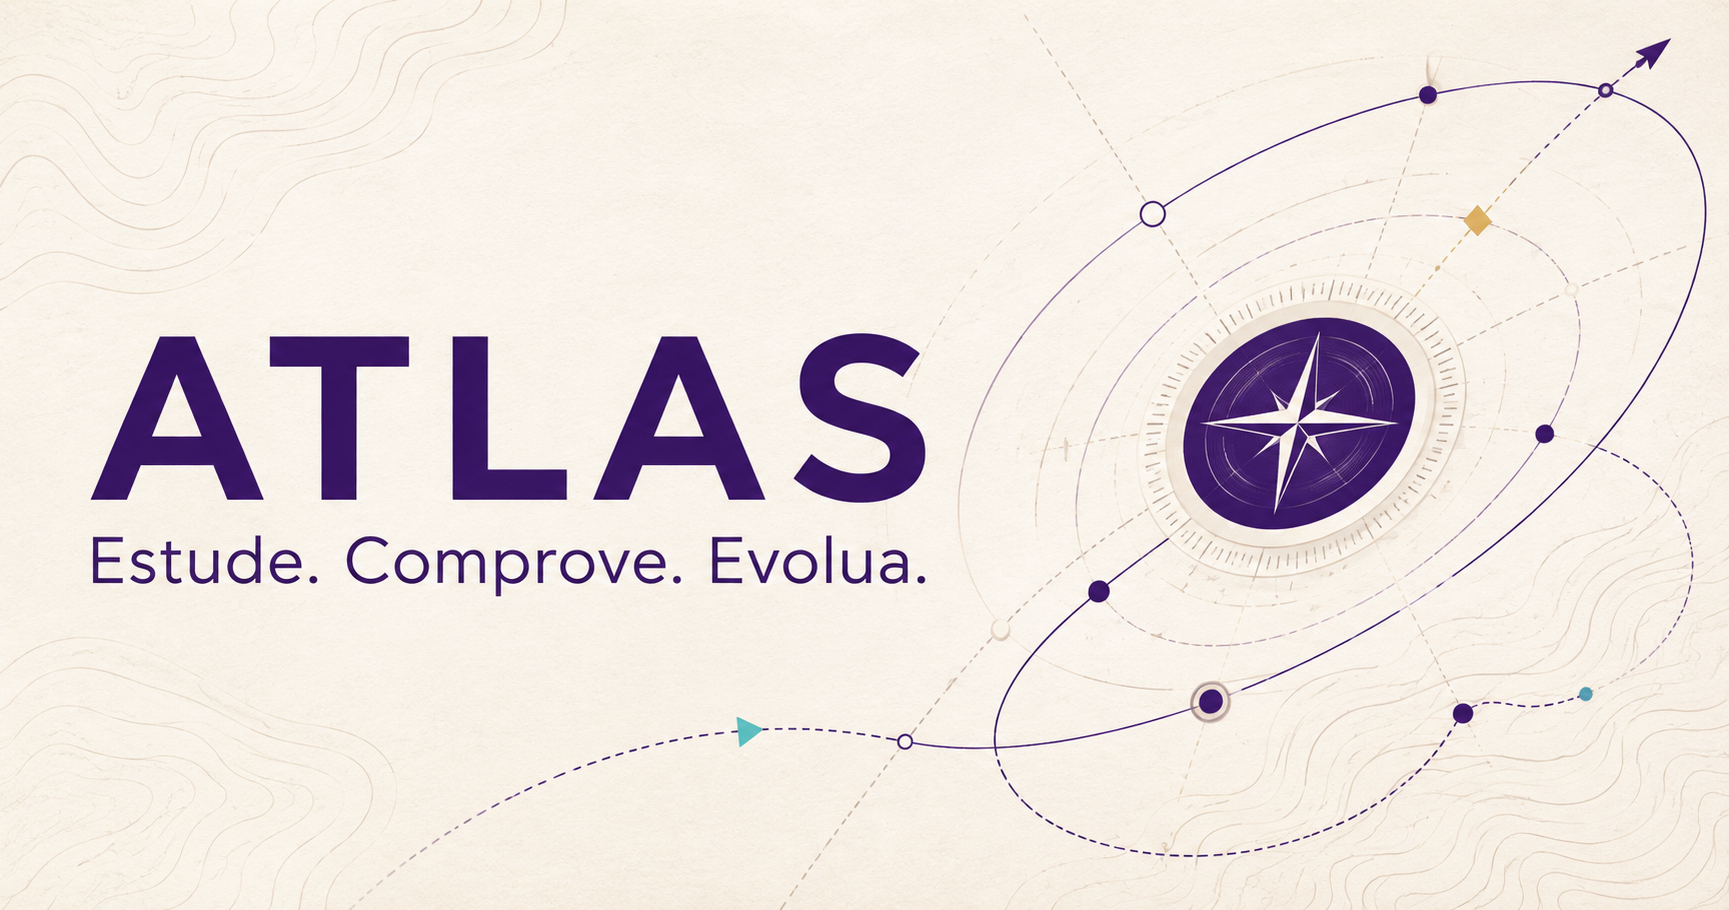
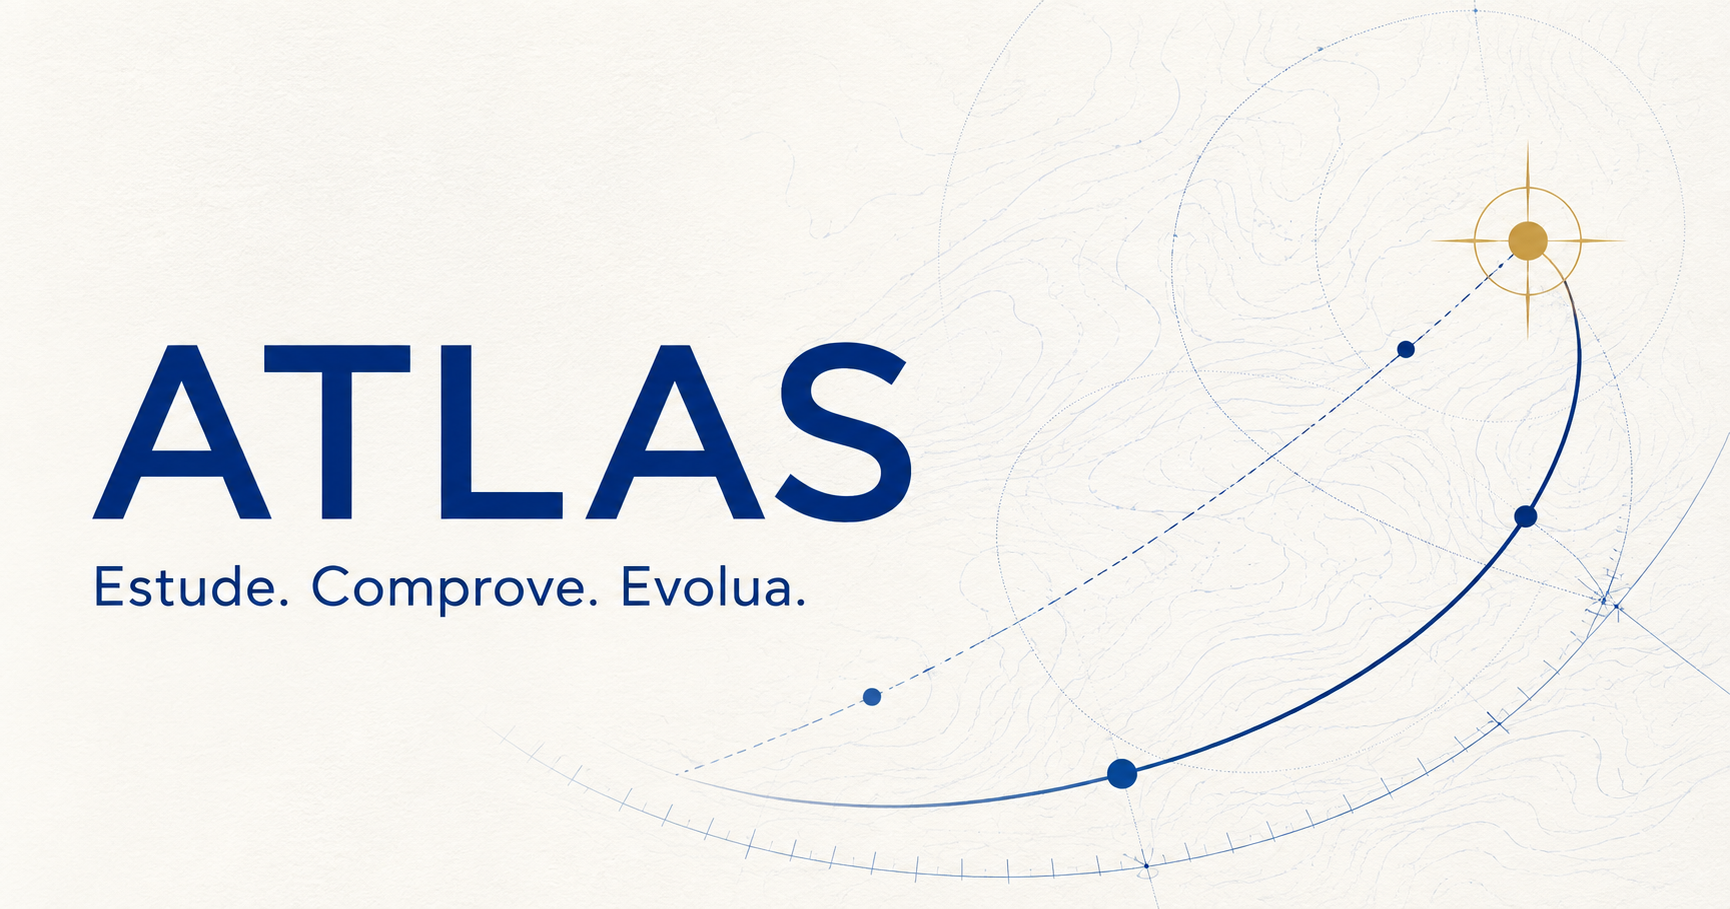
Restore blue and gold Atlas identity

diff --git a/app/globals.css b/app/globals.css
@@ -5,8 +5,8 @@
 :root {
   --ink: #1d1e27;
   --muted: #6a6878;
-  --blue: #6d28d9;
-  --blue-light: #8b5cf6;
+  --blue: #2463eb;
+  --blue-light: #5f8ff7;
   --navy: #f7f7fb;
   --navy-2: #ffffff;
   --panel: #ffffff;
@@ -28,52 +28,52 @@ button { color: inherit; }
 .atlas-shell {
   min-height: 100vh;
   background:
-    radial-gradient(circle at 84% 17%, rgba(109,40,217,.09), transparent 26rem),
+    radial-gradient(circle at 84% 17%, rgba(36,99,235,.08), transparent 26rem),
     radial-gradient(circle at 15% 52%, rgba(36,184,189,.06), transparent 32rem),
     var(--navy);
 }
 
-.top-ribbon { background: #f0eaff; border-top: 4px solid #b7e6e5; border-bottom: 1px solid #e2daf8; color: #412078; }
+.top-ribbon { background: #edf4ff; border-top: 4px solid #d3b76b; border-bottom: 1px solid #dce8fb; color: #23477f; }
 .top-ribbon-inner, .site-header-inner, .page-wrap { width: min(1220px, calc(100% - 48px)); margin: auto; }
 .top-ribbon-inner { min-height: 46px; display: flex; align-items: center; justify-content: space-between; gap: 20px; font-size: 13px; }
-.daily-summary { display: flex; align-items: center; gap: 8px; color: #5e4d76; }
-.daily-summary strong { color: #2c174c; }
-.pulse-dot { width: 8px; height: 8px; border-radius: 50%; background: #6d28d9; box-shadow: 0 0 0 5px rgba(109,40,217,.12); }
-.summary-divider { width: 1px; height: 17px; margin: 0 5px; background: #cabce9; }
+.daily-summary { display: flex; align-items: center; gap: 8px; color: #52709d; }
+.daily-summary strong { color: #183761; }
+.pulse-dot { width: 8px; height: 8px; border-radius: 50%; background: #2463eb; box-shadow: 0 0 0 5px rgba(36,99,235,.12); }
+.summary-divider { width: 1px; height: 17px; margin: 0 5px; background: #b9cce9; }
 .quiet-button { display: flex; align-items: center; gap: 7px; border: 0; background: transparent; cursor: pointer; font-weight: 650; }
 
 .site-header { position: sticky; z-index: 20; top: 0; border-bottom: 1px solid #e7e5ec; background: rgba(255,255,255,.94); backdrop-filter: blur(18px); box-shadow: 0 4px 16px rgba(31,23,54,.04); }
 .site-header-inner { height: 76px; display: flex; align-items: center; gap: 36px; }
 .brand { border: 0; background: transparent; display: flex; align-items: center; gap: 12px; font-weight: 760; font-size: 19px; letter-spacing: .18em; cursor: pointer; }
 .brand-mark { width: 29px; height: 26px; position: relative; display: block; }
-.brand-mark span { position: absolute; bottom: 0; width: 7px; border-radius: 5px 5px 2px 2px; transform: skew(-10deg); background: linear-gradient(180deg, #a855f7, #6d28d9); }
+.brand-mark span { position: absolute; bottom: 0; width: 7px; border-radius: 5px 5px 2px 2px; transform: skew(-10deg); background: linear-gradient(180deg, #5f8ff7, #1d4ed8); }
 .brand-mark span:nth-child(1) { left: 0; height: 15px; }
 .brand-mark span:nth-child(2) { left: 10px; height: 25px; }
 .brand-mark span:nth-child(3) { right: 0; height: 19px; }
 .main-nav { display: flex; align-items: center; gap: 3px; padding: 5px; margin-right: auto; border: 1px solid #ddd9e7; border-radius: 999px; background: #faf9fc; }
 .main-nav button { border: 0; border-radius: 999px; padding: 9px 14px; background: transparent; color: var(--muted); cursor: pointer; transition: .2s ease; font-size: 13px; }
-.main-nav button:hover { color: #4f1ba8; }
-.main-nav button.active { color: #fff; background: #6d28d9; box-shadow: 0 3px 10px rgba(109,40,217,.18); }
+.main-nav button:hover { color: #1d4ed8; }
+.main-nav button.active { color: #fff; background: #2463eb; box-shadow: 0 3px 10px rgba(36,99,235,.18); }
 .header-actions { display: flex; align-items: center; gap: 8px; }
 .header-actions > button { width: 39px; height: 39px; border-radius: 50%; border: 1px solid #ddd9e7; background: #fff; display: grid; place-items: center; cursor: pointer; }
-.header-actions .avatar { border-color: #bca7ea; background: #ede4ff; color: #5b21b6; font-size: 12px; font-weight: 750; }
+.header-actions .avatar { border-color: #a9c4f4; background: #eaf2ff; color: #1d4ed8; font-size: 12px; font-weight: 750; }
 .notification-button { position: relative; }
-.notification-button span { position: absolute; width: 6px; height: 6px; border-radius: 50%; right: 8px; top: 7px; background: #6d28d9; }
+.notification-button span { position: absolute; width: 6px; height: 6px; border-radius: 50%; right: 8px; top: 7px; background: #2463eb; }
 .header-actions .mobile-menu { display: none; }
 
 .page-wrap { padding: 66px 0 110px; }
 .page-heading { display: flex; align-items: flex-end; justify-content: space-between; gap: 30px; margin-bottom: 31px; }
-.eyebrow, .card-kicker { color: #7654a9; letter-spacing: .11em; font-size: 11px; font-weight: 760; }
+.eyebrow, .card-kicker { color: #5573a2; letter-spacing: .11em; font-size: 11px; font-weight: 760; }
 .page-heading h1 { font-size: clamp(32px, 4vw, 48px); line-height: 1.06; letter-spacing: -.045em; margin: 9px 0 12px; }
 .page-heading > div > p:last-child { margin: 0; color: var(--muted); font-size: 15px; }
 .streak-pill { flex: none; display: flex; align-items: center; gap: 8px; padding: 10px 14px; border: 1px solid #efc78c; border-radius: 999px; color: #8a4a0d; background: #fff7e9; font-size: 12px; }
-.preview-notice { margin-bottom: 20px; padding: 13px 16px; display: flex; justify-content: space-between; border: 1px solid #d7c5f5; border-radius: 13px; background: #f2ecff; color: #412078; }
+.preview-notice { margin-bottom: 20px; padding: 13px 16px; display: flex; justify-content: space-between; border: 1px solid #c8daf8; border-radius: 13px; background: #edf4ff; color: #24436f; }
 .preview-notice span { display: flex; align-items: center; gap: 7px; }
-.preview-notice button { border: 0; background: transparent; color: #6d28d9; cursor: pointer; }
+.preview-notice button { border: 0; background: transparent; color: #1d4ed8; cursor: pointer; }
 
 .hero-grid { display: grid; grid-template-columns: minmax(0,1.7fr) minmax(290px,.8fr); gap: 18px; }
 .continue-card, .atlas-observed-card, .metric-card, .task-row, .roadmap-card { border: 1px solid var(--line); background: #fff; box-shadow: 0 8px 28px rgba(39,28,69,.055); }
-.continue-card { overflow: hidden; position: relative; padding: 26px 28px 23px; border-radius: 18px; color: #fff; background: linear-gradient(115deg, #5324bd 0%, #7132df 62%, #8b5cf6 100%); border-color: transparent; box-shadow: 0 18px 50px rgba(87,39,183,.2); }
+.continue-card { overflow: hidden; position: relative; padding: 26px 28px 23px; border-radius: 18px; color: #fff; background: linear-gradient(115deg, #123b8f 0%, #2463eb 62%, #5f8ff7 100%); border-color: transparent; box-shadow: 0 18px 50px rgba(36,99,235,.2); }
 .continue-card::before { content: ''; position: absolute; width: 340px; height: 340px; right: -160px; top: -210px; border: 58px solid rgba(255,255,255,.08); border-radius: 50%; }
 .continue-card .card-kicker, .continue-card .subject-chip { color: #e6dbff; }
 .continue-card .continue-content p, .continue-card .continue-footer > span, .continue-card .progress-copy span { color: rgba(255,255,255,.76); }
@@ -87,22 +87,22 @@ button { color: inherit; }
 .progress-copy span { color: var(--muted); font-size: 11px; }
 .progress-track { height: 6px; overflow: hidden; border-radius: 99px; background: #ece9f1; }
 .continue-card .progress-track { background: rgba(255,255,255,.24); }
-.progress-track span { display: block; height: 100%; border-radius: inherit; background: linear-gradient(90deg, #6d28d9, #9b6bf3); }
+.progress-track span { display: block; height: 100%; border-radius: inherit; background: linear-gradient(90deg, #2463eb, #5f8ff7); }
 .continue-card .progress-track span { background: #fff; }
 .continue-footer { margin-top: 22px; display: flex; align-items: center; justify-content: space-between; gap: 18px; }
 .continue-footer > span { display: flex; gap: 6px; align-items: center; color: var(--muted); font-size: 12px; }
-.primary-button { height: 42px; padding: 0 18px; gap: 8px; border-radius: 8px; background: var(--blue); color: white; font-weight: 700; cursor: pointer; box-shadow: 0 8px 26px rgba(109,40,217,.18); }
-.continue-card .primary-button { color: #5b21b6; background: #fff; }
-.primary-button:hover { background: #7c3aed; }
-.continue-card .primary-button:hover { background: #f7f3ff; }
+.primary-button { height: 42px; padding: 0 18px; gap: 8px; border-radius: 8px; background: var(--blue); color: white; font-weight: 700; cursor: pointer; box-shadow: 0 8px 26px rgba(36,99,235,.18); }
+.continue-card .primary-button { color: #1d4ed8; background: #fff; }
+.primary-button:hover { background: #1d4ed8; }
+.continue-card .primary-button:hover { background: #f3f7ff; }
 
-.atlas-observed-card { border-radius: 18px; padding: 25px; position: relative; overflow: hidden; background: #f2ecff; border-color: #ddcff8; }
-.atlas-observed-card::after { content: ''; position: absolute; width: 190px; height: 190px; border: 1px solid rgba(109,40,217,.14); border-radius: 50%; top: -106px; right: -72px; box-shadow: 0 0 70px rgba(109,40,217,.08); }
-.atlas-orbit { width: 42px; height: 42px; display: grid; place-items: center; margin-bottom: 24px; border: 1px solid #cbb4f1; border-radius: 50%; color: #6d28d9; background: #fff; box-shadow: 0 0 0 6px rgba(109,40,217,.05); }
+.atlas-observed-card { border-radius: 18px; padding: 25px; position: relative; overflow: hidden; background: #eef4ff; border-color: #ccdcf8; }
+.atlas-observed-card::after { content: ''; position: absolute; width: 190px; height: 190px; border: 1px solid rgba(36,99,235,.14); border-radius: 50%; top: -106px; right: -72px; box-shadow: 0 0 70px rgba(36,99,235,.08); }
+.atlas-orbit { width: 42px; height: 42px; display: grid; place-items: center; margin-bottom: 24px; border: 1px solid #b6cdf4; border-radius: 50%; color: #2463eb; background: #fff; box-shadow: 0 0 0 6px rgba(36,99,235,.05); }
 .atlas-orbit.small { width: 34px; height: 34px; margin: 0; }
 .atlas-observed-card h3 { font-size: 19px; margin: 15px 0 9px; }
 .atlas-observed-card > p:not(.card-kicker) { color: var(--muted); font-size: 13px; line-height: 1.65; margin: 0; }
-.atlas-observed-card > button { display: flex; align-items: center; gap: 3px; border: 0; padding: 0; margin-top: 22px; color: #6d28d9; background: transparent; cursor: pointer; font-size: 12px; font-weight: 700; }
+.atlas-observed-card > button { display: flex; align-items: center; gap: 3px; border: 0; padding: 0; margin-top: 22px; color: #1d4ed8; background: transparent; cursor: pointer; font-size: 12px; font-weight: 700; }
 
 .metrics-section { display: grid; grid-template-columns: repeat(3,1fr); gap: 14px; margin: 17px 0 58px; }
 .metric-card { min-height: 122px; padding: 21px; display: flex; align-items: center; gap: 17px; border-radius: 15px; }
@@ -122,16 +122,16 @@ button { color: inherit; }
 .task-row:last-child { border-bottom: 0; }
 .task-row:hover { background: #faf8ff; transform: translateX(2px); }
 .task-row.done { opacity: .57; }
-.task-check { width: 31px; height: 31px; border-radius: 50%; border: 1px solid #bca7ea; background: #fff; color: #6d28d9; cursor: pointer; display: grid; place-items: center; font-size: 11px; }
+.task-check { width: 31px; height: 31px; border-radius: 50%; border: 1px solid #aac3ee; background: #fff; color: #2463eb; cursor: pointer; display: grid; place-items: center; font-size: 11px; }
 .task-row.done .task-check { border-color: #8fd0ba; background: #e5f8f1; color: var(--green); }
 .task-icon { width: 43px; height: 43px; display: grid; place-items: center; border-radius: 12px; }
-.task-icon.blue { color: #6d28d9; background: #eee6ff; }
+.task-icon.blue { color: #2463eb; background: #eaf2ff; }
 .task-icon.violet { color: #7c3aed; background: #f2ecff; }
 .task-icon.amber { color: #b65f12; background: #fff1df; }
 .task-icon.green { color: #128864; background: #e5f8f1; }
 .task-copy > div { display: flex; align-items: center; gap: 10px; }
 .task-label { font-size: 10px; letter-spacing: .09em; text-transform: uppercase; font-weight: 760; }
-.task-label.blue { color: #6d28d9; }.task-label.violet { color: #7c3aed; }.task-label.amber { color: #a9510e; }.task-label.green { color: #128864; }
+.task-label.blue { color: #1d4ed8; }.task-label.violet { color: #7c3aed; }.task-label.amber { color: #a9510e; }.task-label.green { color: #128864; }
 .task-time { display: flex; gap: 4px; align-items: center; color: #898495; font-size: 10px; }
 .task-copy h3 { margin: 6px 0 4px; font-size: 16px; }
 .task-copy p { margin: 0; color: var(--muted); font-size: 12px; }
@@ -139,15 +139,15 @@ button { color: inherit; }
 
 .roadmap-card { margin-top: 54px; border-radius: 17px; padding: 23px 26px; display: grid; grid-template-columns: 1fr minmax(240px,.8fr) auto; align-items: center; gap: 45px; }
 .roadmap-title { display: flex; align-items: center; gap: 14px; }
-.map-icon { width: 43px; height: 43px; display: grid; place-items: center; color: #6d28d9; border-radius: 12px; background: #eee6ff; }
+.map-icon { width: 43px; height: 43px; display: grid; place-items: center; color: #2463eb; border-radius: 12px; background: #eaf2ff; }
 .roadmap-title span, .roadmap-progress span { color: var(--muted); font-size: 10px; letter-spacing: .1em; }
 .roadmap-title h2 { margin: 4px 0 0; font-size: 18px; }
 .roadmap-progress > div:first-child { display: flex; justify-content: space-between; margin-bottom: 10px; }
 .roadmap-progress strong { font-size: 13px; }
-.roadmap-card > button { border: 0; background: transparent; color: #6d28d9; display: flex; align-items: center; gap: 5px; cursor: pointer; font-size: 12px; font-weight: 700; }
+.roadmap-card > button { border: 0; background: transparent; color: #1d4ed8; display: flex; align-items: center; gap: 5px; cursor: pointer; font-size: 12px; font-weight: 700; }
 
-.ask-atlas { position: fixed; z-index: 15; right: 25px; bottom: 23px; border: 1px solid #6d28d9; border-radius: 999px; padding: 7px 16px 7px 7px; display: flex; align-items: center; gap: 9px; color: #fff; background: #6d28d9; box-shadow: 0 18px 55px rgba(80,35,155,.25); cursor: pointer; font-size: 12px; font-weight: 700; }
-.ask-atlas > span { width: 34px; height: 34px; display: grid; place-items: center; border-radius: 50%; color: #6d28d9; background: #fff; }
+.ask-atlas { position: fixed; z-index: 15; right: 25px; bottom: 23px; border: 1px solid #2463eb; border-radius: 999px; padding: 7px 16px 7px 7px; display: flex; align-items: center; gap: 9px; color: #fff; background: #2463eb; box-shadow: 0 18px 55px rgba(25,75,171,.25); cursor: pointer; font-size: 12px; font-weight: 700; }
+.ask-atlas > span { width: 34px; height: 34px; display: grid; place-items: center; border-radius: 50%; color: #2463eb; background: #fff; }
 
 .drawer-backdrop, .modal-backdrop { position: fixed; z-index: 40; inset: 0; background: rgba(30,19,49,.32); backdrop-filter: blur(4px); }
 .assistant-drawer { position: absolute; right: 0; top: 0; bottom: 0; width: min(430px, 100%); display: flex; flex-direction: column; background: #fff; border-left: 1px solid var(--line); box-shadow: -30px 0 80px rgba(42,26,70,.18); animation: slide-in .25s ease; }
@@ -158,7 +158,7 @@ button { color: inherit; }
 .drawer-header small { color: var(--muted); margin-top: 2px; }
 .drawer-header > button { border: 0; background: transparent; cursor: pointer; }
 .drawer-body { flex: 1; padding: 28px 22px; }
-.atlas-message { padding: 16px; border-radius: 5px 16px 16px 16px; background: #f0eaff; color: #493762; font-size: 13px; line-height: 1.65; }
+.atlas-message { padding: 16px; border-radius: 5px 16px 16px 16px; background: #eaf2ff; color: #314866; font-size: 13px; line-height: 1.65; }
 .drawer-body > button { width: 100%; padding: 13px; margin-top: 10px; display: flex; align-items: center; gap: 9px; border: 1px solid var(--line); border-radius: 11px; background: #fff; color: #5f596b; cursor: pointer; text-align: left; font-size: 12px; }
 .drawer-input { padding: 17px; display: flex; gap: 8px; border-top: 1px solid var(--line); }
 .drawer-input input { min-width: 0; flex: 1; padding: 12px 14px; color: #1d1e27; border: 1px solid var(--line); border-radius: 11px; background: #faf9fc; outline: none; }
@@ -166,7 +166,7 @@ button { color: inherit; }
 
 .modal-backdrop { display: grid; place-items: center; padding: 20px; }
 .start-modal { width: min(460px,100%); padding: 35px; text-align: center; border: 1px solid var(--line); border-radius: 21px; background: #fff; box-shadow: 0 40px 100px rgba(42,26,70,.22); }
-.modal-symbol { width: 55px; height: 55px; display: grid; place-items: center; margin: 0 auto 20px; border-radius: 17px; color: #6d28d9; background: #eee6ff; }
+.modal-symbol { width: 55px; height: 55px; display: grid; place-items: center; margin: 0 auto 20px; border-radius: 17px; color: #2463eb; background: #eaf2ff; }
 .start-modal h2 { margin: 9px 0; font-size: 25px; }
 .start-modal > p:last-of-type { color: var(--muted); font-size: 13px; }
 .modal-actions { margin-top: 27px; display: flex; justify-content: center; gap: 10px; }
